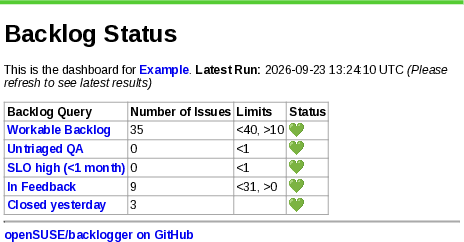
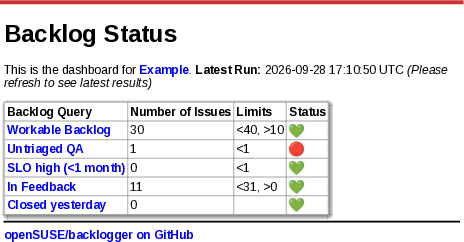
Deploying to gh-pages from @ openSUSE/backlogger@39191d66df3b419e1ed4ce18ea1583e6a8385050 🚀

diff --git a/index.html b/index.html
@@ -9,7 +9,7 @@
 <style>
 main {
     font-family: Verdana, Arial;
-    border-top: 5px solid #55cc33;
+    border-top: 5px solid #cc3333;
     margin: 0px 5px 5px 5px;
     padding: 0 5px;
     background-color: white;
@@ -32,54 +32,51 @@ a {
 </head>
 <body>
 <main>
-<h1 id="backlog-status">Backlog Status</h1>
-
+<h1>Backlog Status</h1>
 <p>This is the dashboard for <a href="http://example.com">Example</a>.
-<strong>Latest Run:</strong> 2026-09-23 13:24:10 UTC
+<strong>Latest Run:</strong> 2026-09-28 17:10:50 UTC
 <em>(Please refresh to see latest results)</em></p>
-
 <table>
-  <thead>
-    <tr>
-      <th>Backlog Query</th>
-      <th>Number of Issues</th>
-      <th>Limits</th>
-      <th>Status</th>
-    </tr>
-  </thead>
-  <tbody>
-    <tr>
-      <td><a href="https://progress.opensuse.org/issues?query_id=478">Workable Backlog</a></td>
-      <td>35</td>
-      <td>&lt;40, &gt;10</td>
-      <td>💚</td>
-    </tr>
-    <tr>
-      <td><a href="https://progress.opensuse.org/issues?query_id=576&amp;project_id=115">Untriaged QA</a></td>
-      <td>0</td>
-      <td>&lt;1</td>
-      <td>💚</td>
-    </tr>
-    <tr>
-      <td><a href="https://progress.opensuse.org/issues?query_id=544">SLO high (&lt;1 month)</a></td>
-      <td>0</td>
-      <td>&lt;1</td>
-      <td>💚</td>
-    </tr>
-    <tr>
-      <td><a href="https://progress.opensuse.org/issues?query_id=520">In Feedback</a></td>
-      <td>9</td>
-      <td>&lt;31, &gt;0</td>
-      <td>💚</td>
-    </tr>
-    <tr>
-      <td><a href="https://progress.opensuse.org/issues?query_id=773">Closed yesterday</a></td>
-      <td>3</td>
-      <td> </td>
-      <td>💚</td>
-    </tr>
-  </tbody>
-</table>
-<hr>
+<thead>
+<tr>
+<th>Backlog Query</th>
+<th>Number of Issues</th>
+<th>Limits</th>
+<th>Status</th>
+</tr>
+</thead>
+<tbody>
+<tr>
+<td><a href="https://progress.opensuse.org/issues?query_id=478">Workable Backlog</a></td>
+<td>30</td>
+<td>&lt;40, &gt;10</td>
+<td>&#x1F49A;</td>
+</tr>
+<tr>
+<td><a href="https://progress.opensuse.org/issues?query_id=576&amp;project_id=115">Untriaged QA</a></td>
+<td>1</td>
+<td>&lt;1</td>
+<td>&#x1F534;</td>
+</tr>
+<tr>
+<td><a href="https://progress.opensuse.org/issues?query_id=544">SLO high (&lt;1 month)</a></td>
+<td>0</td>
+<td>&lt;1</td>
+<td>&#x1F49A;</td>
+</tr>
+<tr>
+<td><a href="https://progress.opensuse.org/issues?query_id=520">In Feedback</a></td>
+<td>11</td>
+<td>&lt;31, &gt;0</td>
+<td>&#x1F49A;</td>
+</tr>
+<tr>
+<td><a href="https://progress.opensuse.org/issues?query_id=773">Closed yesterday</a></td>
+<td>0</td>
+<td></td>
+<td>&#x1F49A;</td>
+</tr>
+</tbody>
+</table><hr>
 <a href="https://github.com/openSUSE/backlogger">openSUSE/backlogger on GitHub</a>
 </main></body></html>
